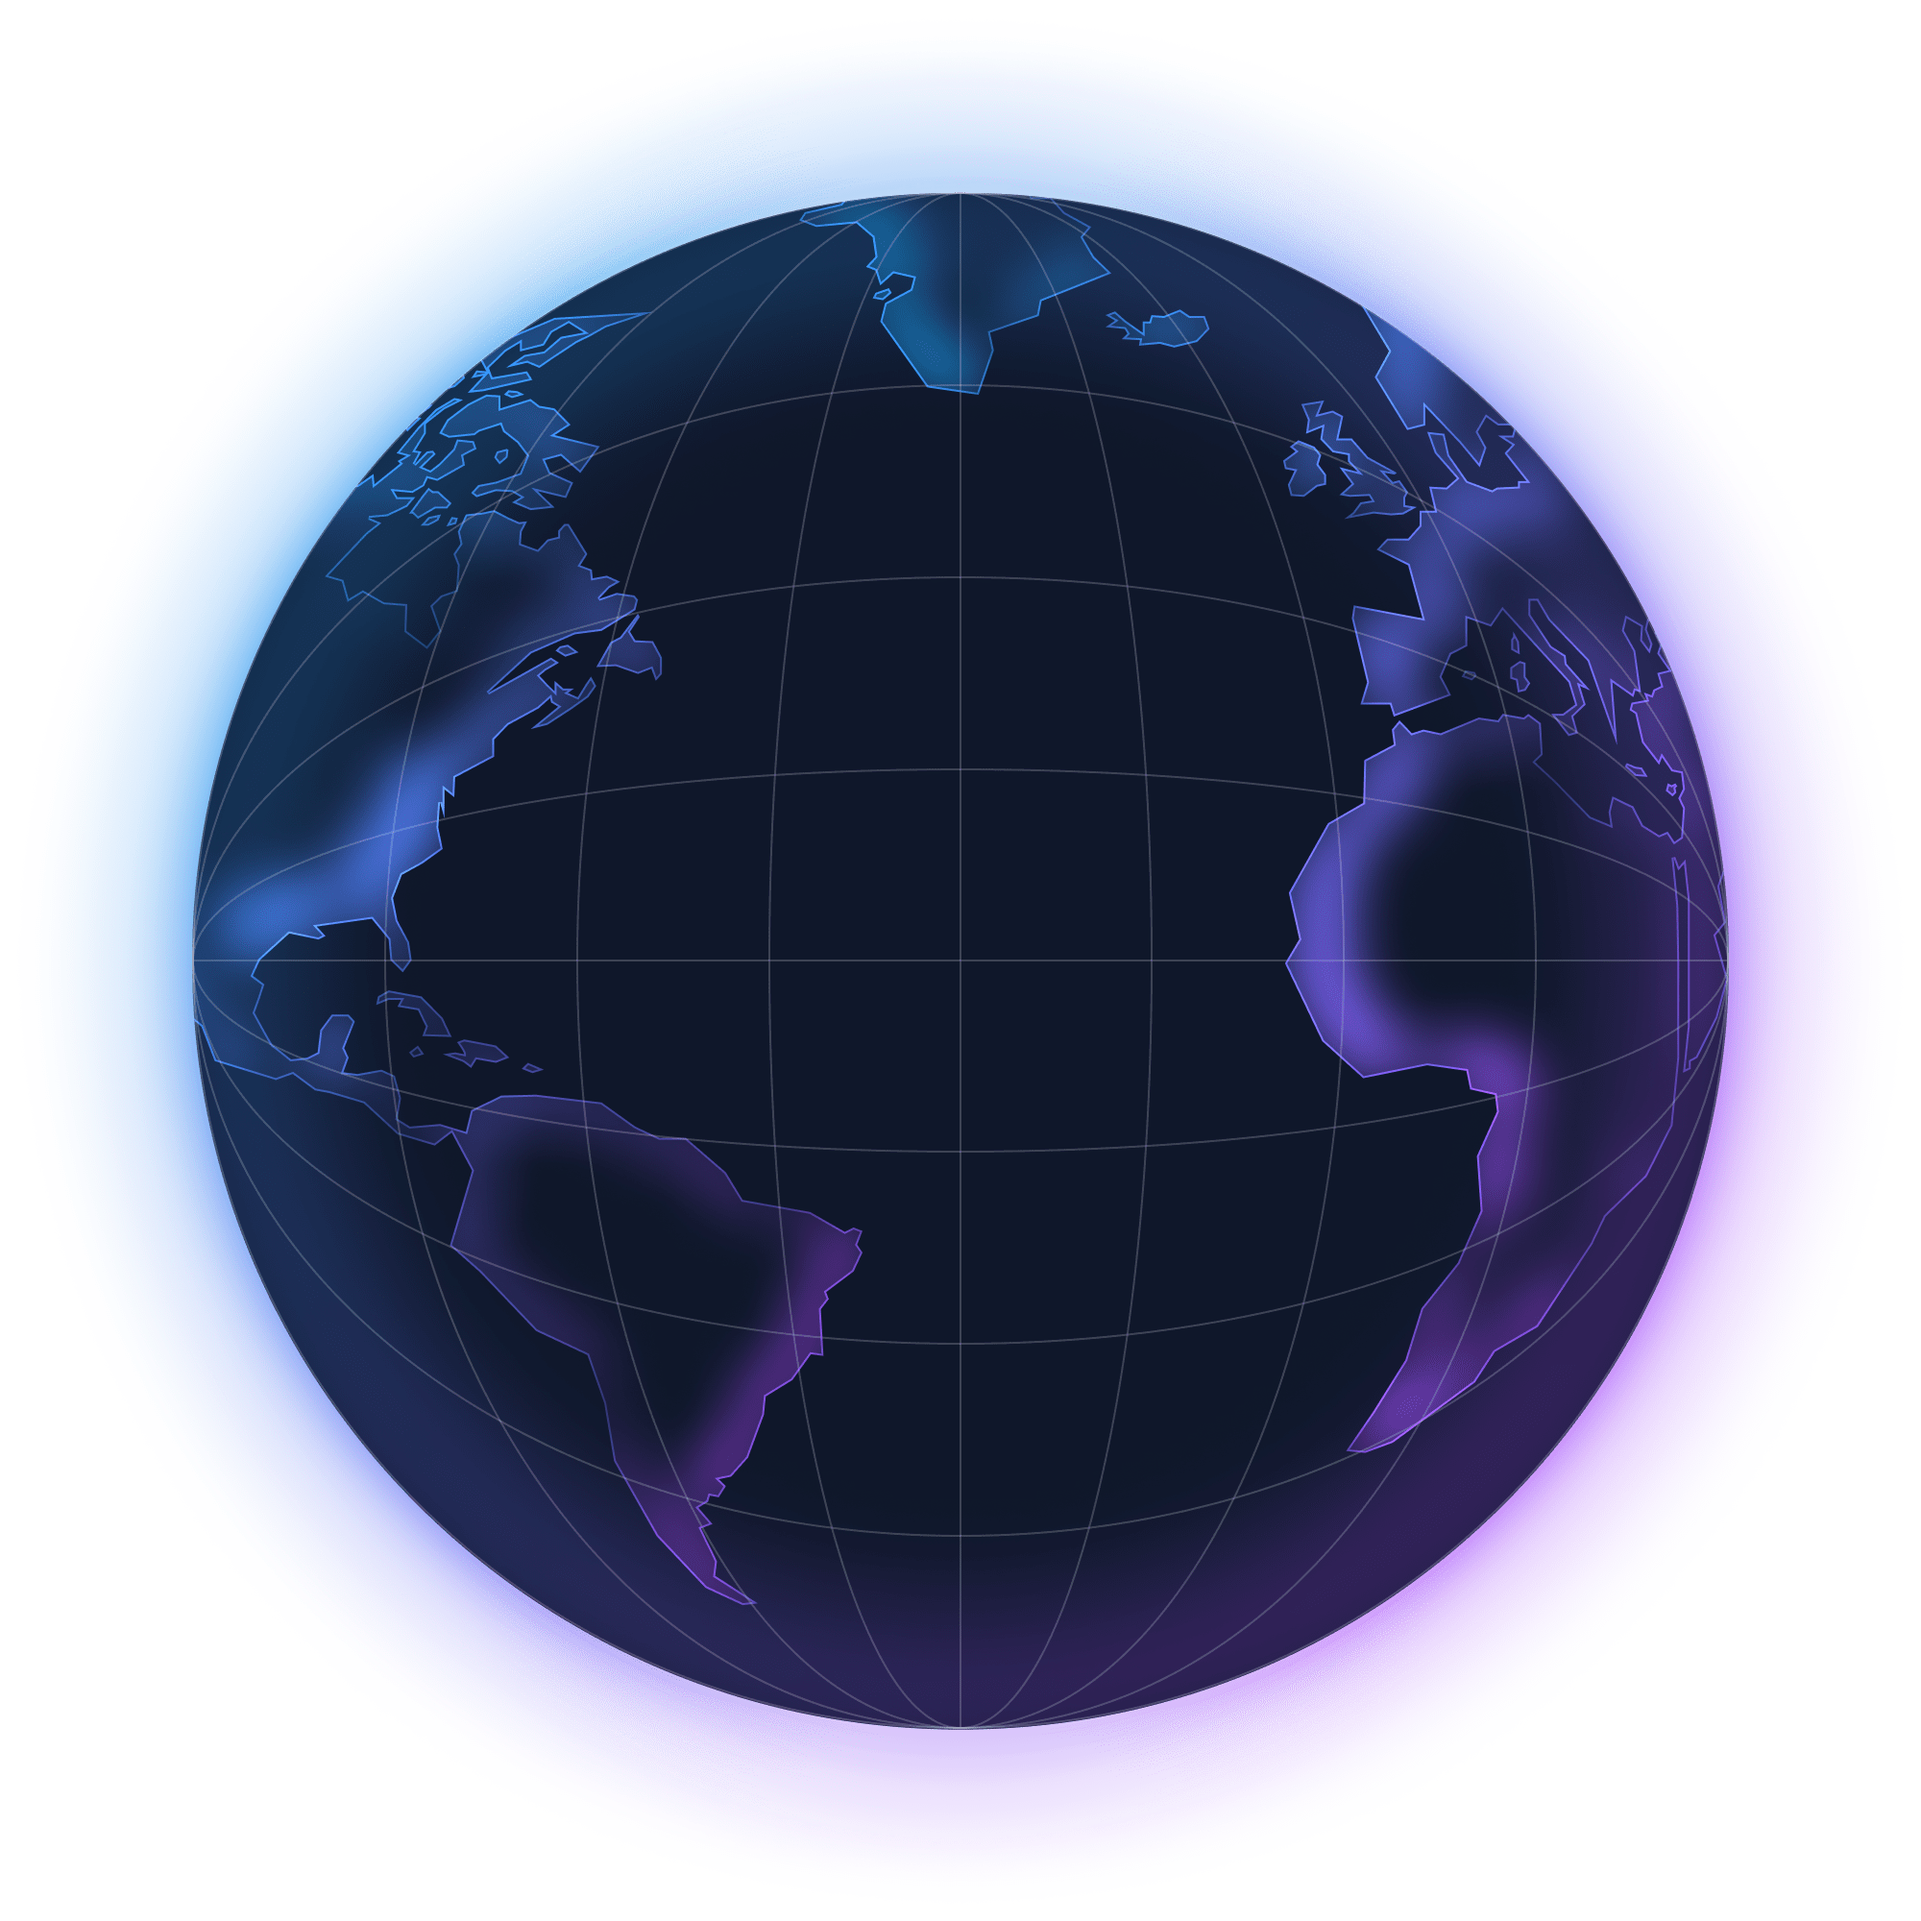
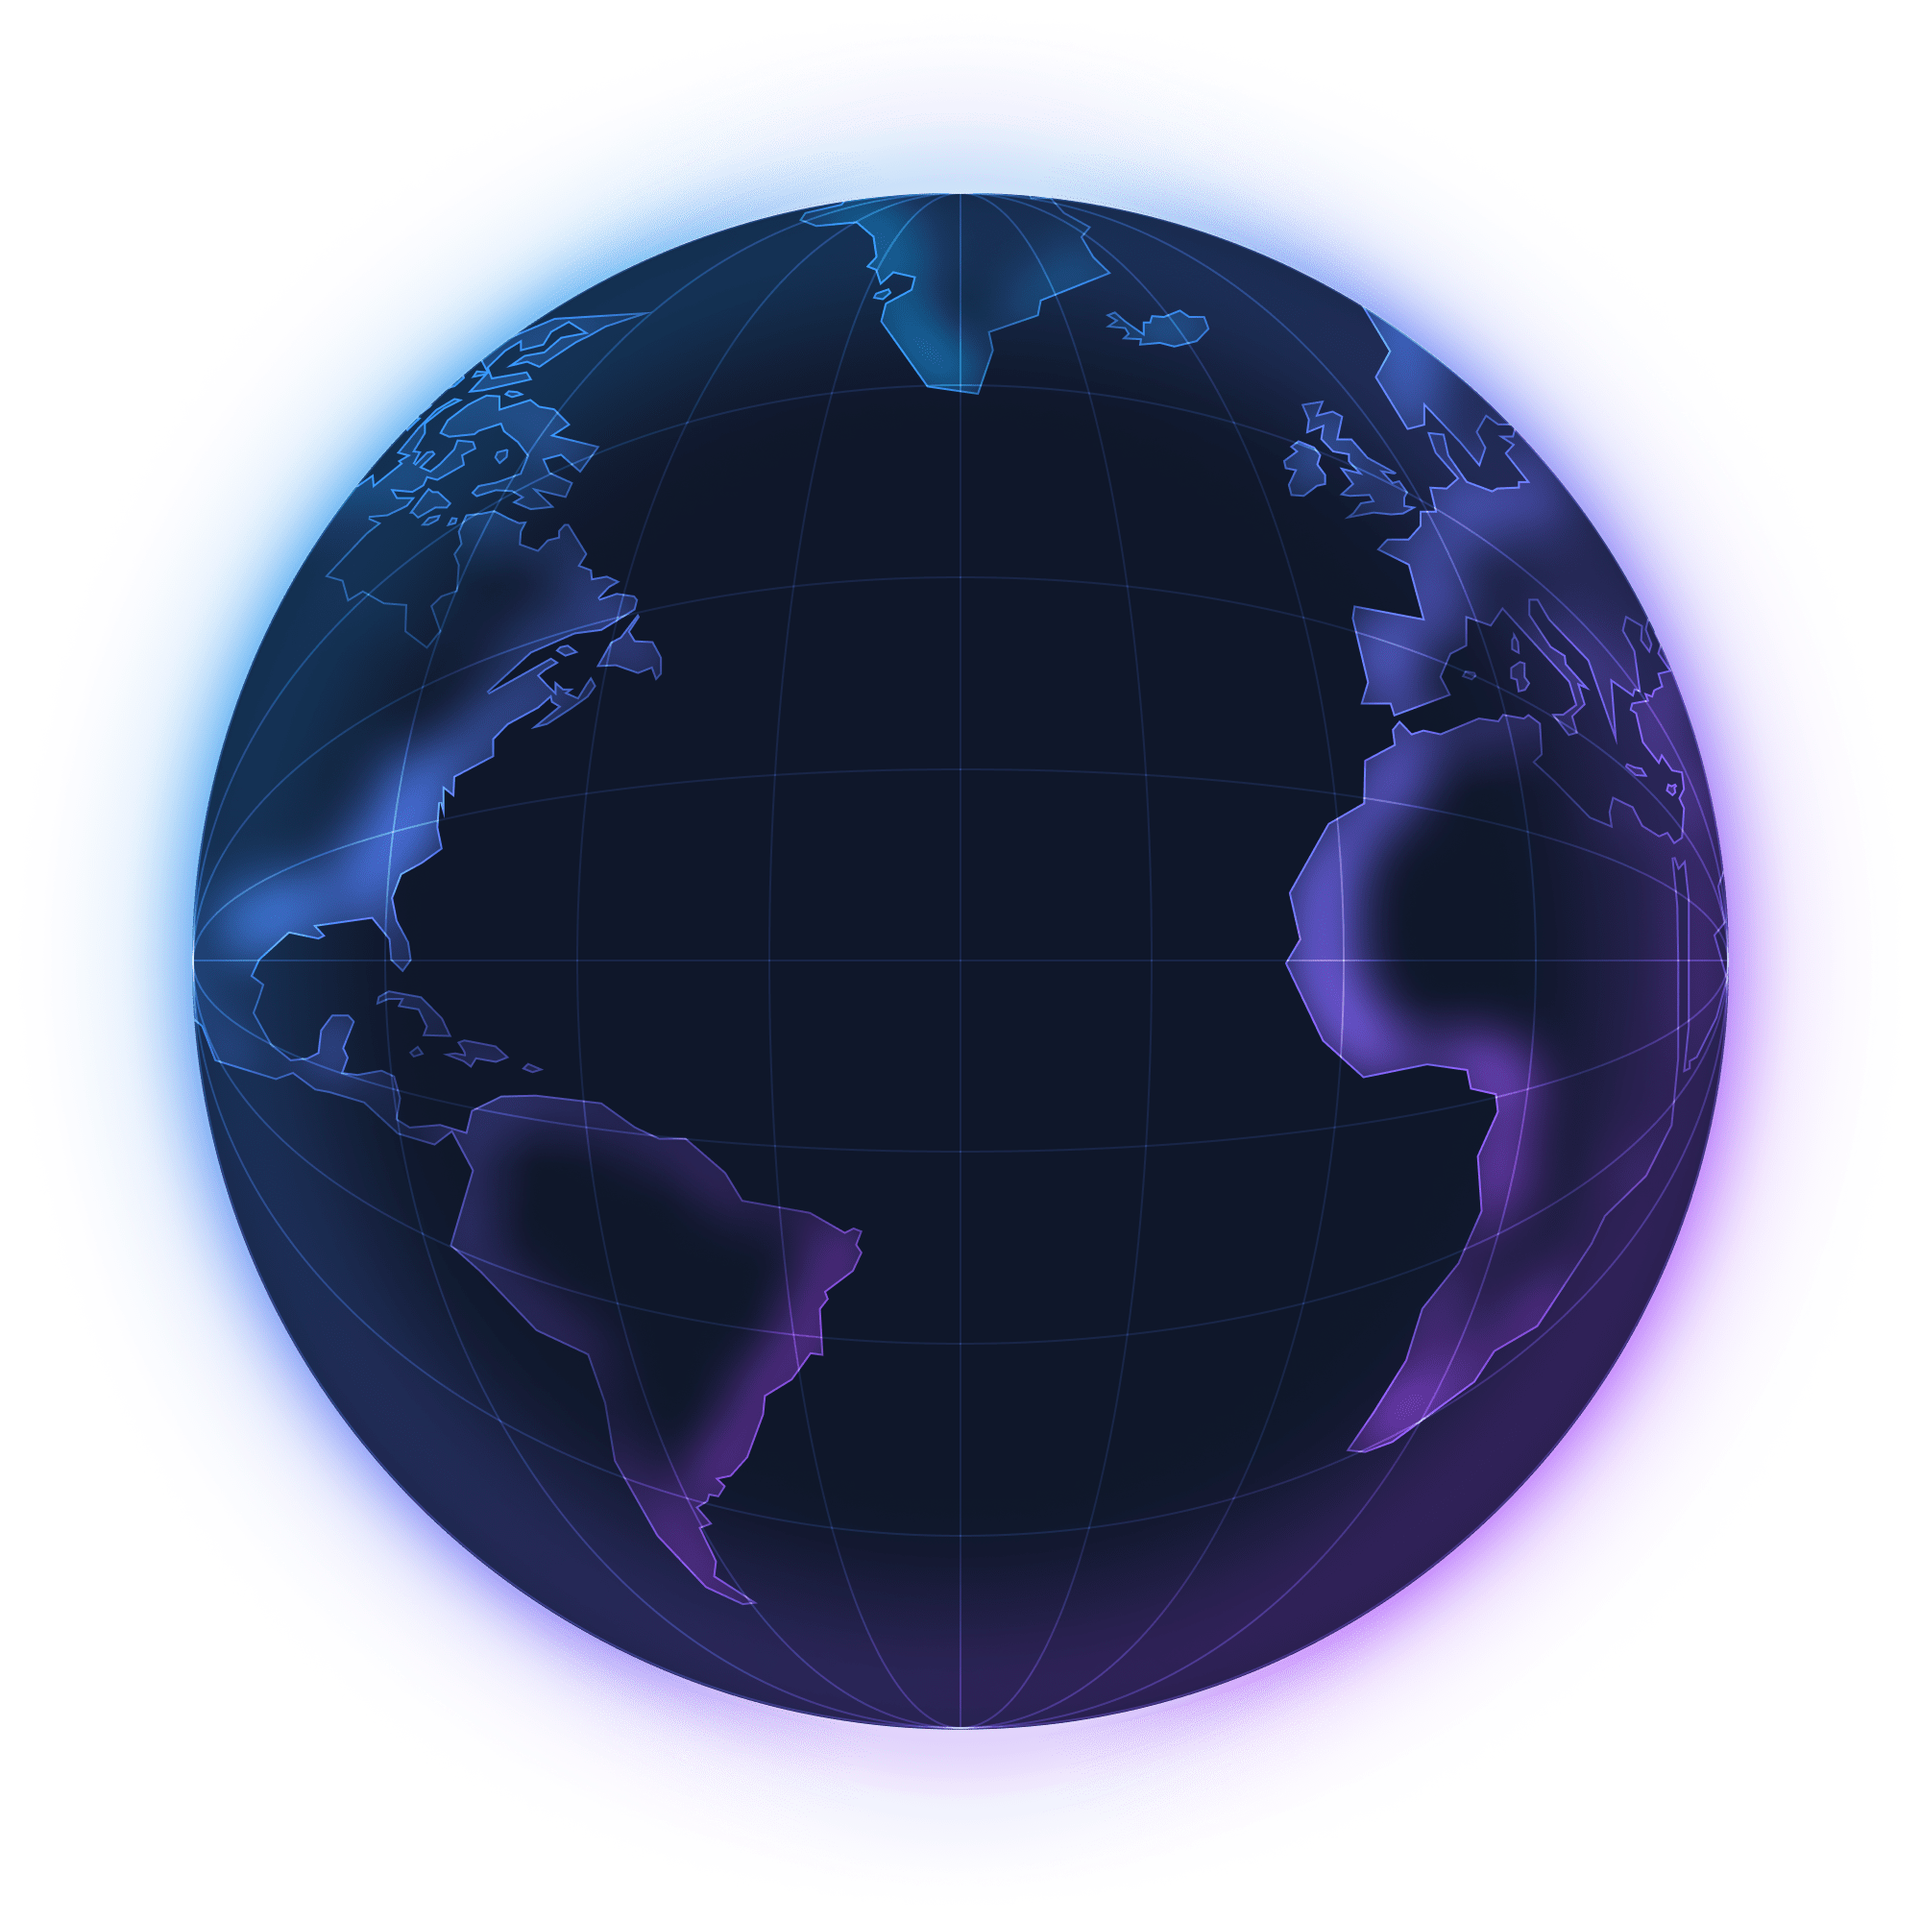
hero home updates

diff --git a/src/includes/hero-home.html b/src/includes/hero-home.html
@@ -1,80 +1,40 @@
-<section>
-    <div class="pt-24 md:pt-32 pb-16 md:pb-24">
+<section class="relative min-h-[800px] h-screen overflow-hidden flex items-center">
 
-        <canvas data-sal="fade" data-sal-delay="500" class="pointer-events-none absolute top-0 left-0 z-0 w-full" id="canvas" width="1920" height="600"></canvas>
-        <script>
-            new rive.Rive({
-            src: "/static/videos/new_file.riv",
-            canvas: document.getElementById("canvas"),
-            autoplay: true
-            });
-        </script>
+        <div class="text-center">
 
-        <div data-sal="zoom-out" class="text-center max-w-screen-md mx-auto relative z-10">
-            <h1 class="text-4xl md:text-7xl">The world of <br> travel <span class="text-primary">reinvented</span> </h1>
-            <p>Camino is a blockchain-powered B2B2C ecosystem fueled by the Camino token. The versatile platform offers the perfect opportunity to map and expand current business models and create new touristic products and ways to interact with travelers.</p>
-            <div x-data="{ CaminoVideoModal: false }">
-                <div class="flex justify-center items-center mt-6">
-                    <div class="button-gradient cursor-pointer mr-2" @click="CaminoVideoModal = true">Watch video</div>
-                    <a class="button-secondary" href="/ecosystem">Learn more</a>
-                </div>
-                <!-- Video modal -->
-                <div x-cloak x-transition x-show="CaminoVideoModal" class="bg-gray-900/75 mx-auto fixed p-8 lg:p-16 top-0 left-0 w-full h-full flex items-center overflow-y-auto z-50" onclick="pauseVideo()">
-                    <div class="bg-gray-800 mx-auto relative" @click.away="CaminoVideoModal = false">
-                        <div @click="CaminoVideoModal = false" onclick="pauseVideo()" class="p-4 rounded-full z-20 bg-gray-700 hover:bg-gray-600 absolute top-2 right-2 cursor-pointer">
-                            <svg class="w-6 h-6" fill="none" stroke="currentColor" viewBox="0 0 24 24" xmlns="http://www.w3.org/2000/svg"><path stroke-linecap="round" stroke-linejoin="round" stroke-width="2" d="M6 18L18 6M6 6l12 12"></path></svg>
+            <img
+                data-sal="zoom-out"
+                data-sal-easing="easeInOutQuint"
+                data-sal-delay="250"
+                data-sal-duration="1000"
+                src="/static/images/globe.png"
+                class="z-0 w-full md:max-w-screen-md xl:max-w-screen-lg object-contain mx-auto"
+            />
+
+            <div class="order-last md:px-4 w-full max-w-screen-md md:absolute md:top-1/2 md:left-1/2 md:-translate-x-1/2 md:-translate-y-1/2 z-20">
+                <h1 class="text-4xl md:text-7xl">
+                    The world of <br> travel <span class="text-primary">reinvented</span>
+                </h1>
+                <p>
+                    Camino is a blockchain-powered B2B2C ecosystem fueled by the Camino token. The versatile platform offers the perfect opportunity to map and expand current business models and create new touristic products and ways to interact with travelers.
+                </p>
+                <div x-data="{ CaminoVideoModal: false }">
+                    <div class="flex justify-center items-center mt-6">
+                        <div class="button-gradient cursor-pointer mr-2" @click="CaminoVideoModal = true">Watch video</div>
+                        <a class="button-secondary" href="/ecosystem">Learn more</a>
+                    </div>
+                    <!-- Video modal -->
+                    <div x-cloak x-transition x-show="CaminoVideoModal" class="bg-gray-900/75 mx-auto fixed p-8 lg:p-16 top-0 left-0 w-full h-full flex items-center overflow-y-auto z-50" onclick="pauseVideo()">
+                        <div class="bg-gray-800 mx-auto relative" @click.away="CaminoVideoModal = false">
+                            <div @click="CaminoVideoModal = false" onclick="pauseVideo()" class="p-4 rounded-full z-20 bg-gray-700 hover:bg-gray-600 absolute top-2 right-2 cursor-pointer">
+                                <svg class="w-6 h-6" fill="none" stroke="currentColor" viewBox="0 0 24 24" xmlns="http://www.w3.org/2000/svg"><path stroke-linecap="round" stroke-linejoin="round" stroke-width="2" d="M6 18L18 6M6 6l12 12"></path></svg>
+                            </div>
+                            <video id="caminoVideo" preload="auto" class="bg-gray-900" src="/static/videos/Camino_Introduction.mp4" controls></video>
                         </div>
-                        <video id="caminoVideo" preload="auto" class="bg-gray-900" src="/static/videos/Camino_Introduction.mp4" controls></video>
                     </div>
                 </div>
             </div>
 
-            <script> 
-                var myVideo = document.getElementById("caminoVideo"); 
-                function pauseVideo() { 
-                    myVideo.pause();
-                } 
-            </script> 
-
         </div>
 
-        <div class="mt-32 relative w-full h-[1400px]">
-            <img src="/static/images/globe.png" class="object-contain relative left-1/2 z-10 -translate-x-1/2 top-0 globuscamino w-[1200px] h-[1200px] rounded-full mx-auto" />
-            <img src="/static/images/camino-star.png" class="object-contain relative left-1/2 z-0 -translate-x-1/2 top-64 globuscamino2 w-[60px] h-[60px] opacity-0 rounded-full mx-auto" />
-        </div>
-
-        <script>
-            gsap.registerPlugin(ScrollTrigger);
-
-            gsap.set('.globuscamino', { position: 'absolute'});
-            gsap.set('.globuscamino2', { position: 'absolute'});
-
-            gsap.to('.globuscamino', {
-                scale: .25,
-                opacity: 0,
-                ease: 'power2',
-                scrollTrigger: {
-                    trigger: '.globuscamino',
-                    markers: true,
-                    start: '-128px top',
-                    end: '+=600px',
-                    scrub: true,
-                    pin: true,
-                }
-            })
-
-            gsap.to('.globuscamino2', {
-                scale: 10,
-                opacity: 1,
-                scrollTrigger: {
-                    trigger: '.globuscamino2',
-                    markers: true,
-                    start: '-700px top',
-                    end: '+=800px',
-                    scrub: true,
-                    pin: true,
-                }
-            })
-        </script>
-    </div>
 </section>
